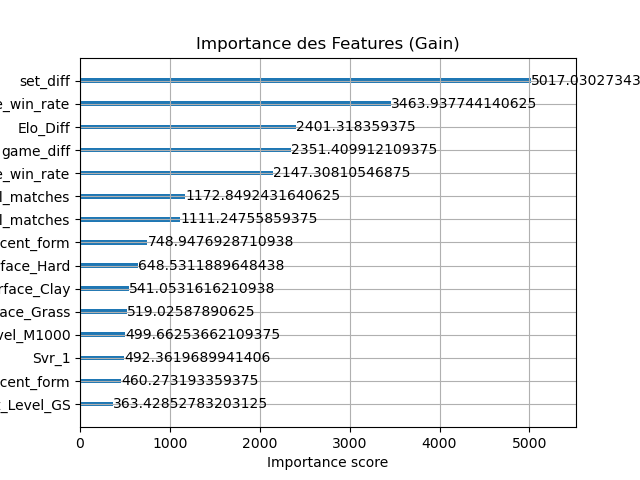
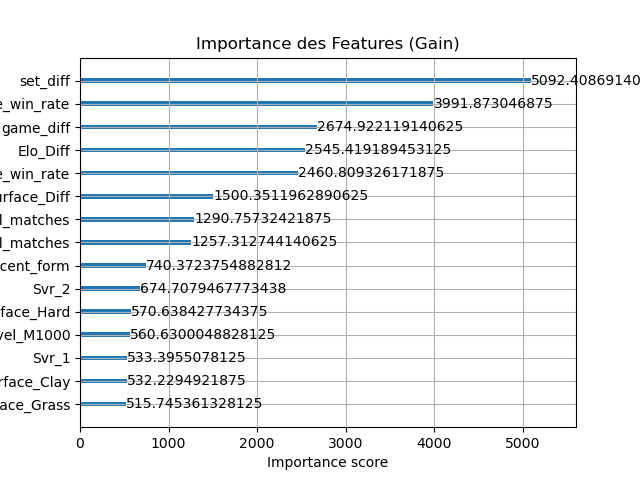
début de la classe data set

diff --git a/src/models/xgboost_rnn/class_data_set.py b/src/models/xgboost_rnn/class_data_set.py
@@ -1,0 +1,70 @@
+# création de la classe DataSet pour pouvoir entrainer le modèle pytorch
+import pandas as pd
+import torch
+from torch.utils.data import Dataset
+class TennisDataset(Dataset):
+    def __init__(self, data, feature_cols, target_col):
+        self.X = data[feature_cols].values
+        self.y = data[target_col].values
+        self.data = data
+
+    def __len__(self):
+        return len(self.y)
+
+    def players_to_index(self, data):
+        players = pd.concat([data['Player1_Name'], data['Player2_Name']]).unique() # obtenir la liste unique des joueurs
+        self.player_to_idx = {player: idx for idx, player in enumerate(players)}
+        self.idx_to_player = {idx: player for player, idx in self.player_to_idx.items()}
+
+    def surfaces_to_index(self):
+        data = self.data
+        surfaces = data['Surface'].unique()
+        self.surface_to_idx = {surface: idx for idx, surface in enumerate(surfaces)}
+        self.idx_to_surface = {idx: surface for surface, idx in self.surface_to_idx.items()}
+
+    def tournaments_to_index(self):
+        data = self.data
+        tournaments = data['tournament_name'].unique()
+        self.tournament_to_idx = {tournament: idx for idx, tournament in enumerate(tournaments)}
+        self.idx_to_tournament = {idx: tournament for tournament, idx in self.tournament_to_idx.items()}
+
+    def sequence_rnn(self, sequence_length=10):
+        data = self.data.sort_values(['match_id', 'Pt']).reset_index(drop=True)
+        all_sequences = []
+
+        # Grouper par match pour éviter de recalculer data['match_id'] == matchs à chaque fois (plus rapide)
+        for _, match_data in data.groupby('match_id'):
+            winners = match_data['PtWinner'].values # On suppose 1 ou 2 ici
+
+            for i in range(len(winners)):
+                # On prend les points avant l'index i
+                # Si i=0, la liste est vide. Si i=5, on prend de 0 à 4.
+                current_seq = winners[max(0, i - sequence_length) : i].tolist()
+
+                # Padding : on ajoute des 0 à gauche pour atteindre sequence_length
+                padded_seq = [0] * (sequence_length - len(current_seq)) + current_seq
+                all_sequences.append(padded_seq)
+
+        self.sequences = torch.LongTensor(all_sequences)
+        # j'ai l'ensemble des séquences pour chaque point dans l'ordre du dataframe sous forme de tenseur
+
+
+    def __getitem__(self, idx):
+        # Récupérer la séquence pré-calculée pour ce point précis
+        seq = self.sequences[idx] # Résultat: un tenseur de taille (10,)
+
+        # 2. Récupérer les indices des joueurs et décor (exemples)
+        row = self.data.iloc[idx]
+        p1 = self.player_to_idx.get(row['Player1_Name'], 0) # 0 si inconnu
+        p2 = self.player_to_idx.get(row['Player2_Name'], 0)
+
+        # 3. Récupérer la cible (Winner_Binary)
+        target = self.y[idx]
+
+        # On renvoie un dictionnaire (plus propre pour s'y retrouver après)
+        return {
+            'p1': torch.tensor(p1, dtype=torch.long),
+            'p2': torch.tensor(p2, dtype=torch.long),
+            'sequence': seq,
+            'target': torch.tensor(target, dtype=torch.float)
+        }

diff --git a/src/models/xg_boost/xg_boost.py b/src/models/xg_boost/xg_boost.py
@@ -6,6 +6,7 @@ from sklearn.metrics import log_loss, brier_score_loss, accuracy_score
 from utils.features import load_data, df_complete_features
 import matplotlib.pyplot as plt
 from sklearn.calibration import calibration_curve
+import seaborn as sns
 
 # 1. Chargement et Nettoyage
 print("Chargement des données...")
@@ -35,7 +36,8 @@ significant_features = [
     'Gm#', 'p1_recent_form', 'p2_recent_form', 'Svr_1', 'Simple_Score_Player1',
     'Simple_Score_Player2', 'p1_total_matches', 'p2_total_matches',
     'Surface_Clay', 'Surface_Grass', 'Surface_Hard',
-    'Tournament_Level_GS', 'Tournament_Level_M1000', 'Tournament_Level_ATP500', 'Tournament_Level_ATP250'
+    'Tournament_Level_GS', 'Tournament_Level_M1000', 'Tournament_Level_ATP500', 'Tournament_Level_ATP250',
+    "Elo_Surface_Diff", "Svr_2"
 ]
 
 # Colonnes de base pour le get_dummies
@@ -47,7 +49,6 @@ def prepare_matrices(data, features_list):
     X = pd.get_dummies(data.drop(columns=[c for c in cols_to_drop if c in data.columns]),
                        columns=['Surface', 'Tournament_Level', 'Svr'])
 
-    # Réalignement critique : on s'assure que X a exactement les colonnes de features_list
     X = X.reindex(columns=features_list, fill_value=0)
     y = data['Winner_Binary']
     return X, y
@@ -107,8 +108,6 @@ plt.plot([0, 1], [0, 1], linestyle='--', color='gray', label='Parfaite Calibrati
 # On ajoute tes modèles (exemple avec tes résultats XGBoost)
 plot_calibration(y_test, y_pred_proba, "Xgboost")
 
-# Quand tu auras ton RNN, tu n'auras qu'à ajouter cette ligne :
-# plot_calibration(y_test, y_rnn_proba, "Modèle Hybride RNN")
 
 plt.xlabel('Probabilité Prédite')
 plt.ylabel('Fréquence Réelle de Victoire')
@@ -116,3 +115,22 @@ plt.title('Courbe de Calibration : Xgboost vs Réalité')
 plt.legend()
 plt.grid(True, alpha=0.3)
 plt.show()
+
+
+def plot_discrimination(y_true, y_probs, model_name):
+    plt.figure(figsize=(10, 6))
+    # Distribution pour les perdants (0)
+    plt.plot([0, 1], [0, 1], "k--", label="Parfaite Calibration", alpha=0.6)
+    sns.kdeplot(y_probs[y_true == 0], label='Réalité : Défaite', shade=True, color='red')
+    # Distribution pour les gagnants (1)
+    sns.kdeplot(y_probs[y_true == 1], label='Réalité : Victoire', shade=True, color='blue')
+
+    plt.title(f'Capacité de Discrimination - {model_name}')
+    plt.xlabel('Probabilité de victoire prédite')
+    plt.ylabel('Densité de matchs')
+    plt.legend()
+    plt.show()
+
+# À tester avec :
+#plot_discrimination(y_test, y_pred_proba, "Régression Logistique")
+plot_discrimination(y_test, y_pred_proba, "XGBoost")

diff --git a/utils/features.py b/utils/features.py
@@ -218,6 +218,46 @@ def calculate_elo(df, k_factor=32):
     return pd.DataFrame(elo_history)
 
 
+
+def calculate_elo_surface(df, k_factor=32):
+    # On trie pour être sûr de l'ordre chronologique
+    df_sorted = df.sort_values(by=['match_id'])
+    matches = df_sorted[['match_id', 'Player1_Name', 'Player2_Name', 'Winner', 'Surface']].drop_duplicates()
+
+    elo_dict = {}
+    elo_history = []
+
+    for _, row in matches.iterrows():
+        p1, p2 = row['Player1_Name'], row['Player2_Name']
+        surface = row['Surface']
+        # Clé unique par joueur et surface
+        key1, key2 = (p1, surface), (p2, surface)
+
+        r1, r2 = elo_dict.get(key1, 1500), elo_dict.get(key2, 1500)
+
+        elo_history.append({'match_id': row['match_id'], 'Elo_P1_Surface': r1, 'Elo_P2_Surface': r2})
+
+        # MISE À JOUR : On utilise le résultat pour le PROCHAIN match
+        actual_p1 = 1 if row['Winner'] == p1 else 0
+        expected_p1 = 1 / (1 + 10 ** ((r2 - r1) / 400))
+
+        elo_dict[key1] = r1 + k_factor * (actual_p1 - expected_p1)
+        elo_dict[key2] = r2 + k_factor * ((1 - actual_p1) - (1 - expected_p1))
+
+    return pd.DataFrame(elo_history)
+
+
+
+def difference_in_elo_surface(df):
+    df['Elo_Surface_Diff'] = df['Elo_P1_Surface'] - df['Elo_P2_Surface']
+    return df
+
+
+
+
+
+
+
 def calculate_live_momentum(df):
     """
     Calcule les statistiques de performance en direct durant le match de manière optimisée.
@@ -360,6 +400,8 @@ def df_complete_features(df):
     print("Calcul de l'Elo en cours...")
     elo_map = calculate_elo(df)
     df = df.merge(elo_map, on='match_id', how='left')
+    elo_surface_map = calculate_elo_surface(df)
+    df = df.merge(elo_surface_map, on='match_id', how='left')
 
     # momentum live
     print("Calcul du momentum en cours...")
@@ -380,6 +422,7 @@ def df_complete_features(df):
 
     df = column_winner(df)
     df = elo_difference(df)
+    df = difference_in_elo_surface(df)
 
     # Finalisation
     return df.reset_index(drop=True)
@@ -406,6 +449,9 @@ if __name__ == "__main__":
         print(df['Elo_P1'].quantile([0.25, 0.5, 0.75, 0.99]))
         print("Quantiles Elo_P2 :")
         print(df['Elo_P2'].quantile([0.25, 0.5, 0.75, 0.99]))
+        # quantiles elo surfac Hard
+        print("Quantiles Elo_P1_Surface :")
+        print(df[df['Surface'] == 'Hard']['Elo_P1_Surface'].quantile([0.25, 0.5, 0.75, 0.99]))
 
     except Exception as e:
         print(f"Erreur : {e}")

diff --git a/src/models/regression_log/regression_sklearn.py b/src/models/regression_log/regression_sklearn.py
@@ -6,6 +6,7 @@ from utils.features import load_data, df_complete_features
 import matplotlib.pyplot as plt
 from sklearn.metrics import brier_score_loss, log_loss
 from sklearn.calibration import calibration_curve
+import seaborn as sns
 
 
 df = load_data("/Users/mathisverguet/live_win_probability_tennis/data/raw/processed/charting-m-points-2020s.csv")
@@ -23,7 +24,7 @@ df = df.dropna().reset_index(drop=True)
 
 # Split temporel propre
 df_train = df[df['year'] <= 2015].copy()
-df_test = df[df['year'] > 2015].copy()
+df_test = df[df['year'] >= 2020].copy()
 
 # Liste des colonnes à supprimer
 cols_to_drop = [
@@ -43,7 +44,7 @@ significant_features = ['Elo_Diff', 'Pt', 'set_diff', 'game_diff', 'p1_serve_win
                         'Simple_Score_Player2', 'p1_total_matches', 'p2_total_matches',
                         'Surface_Clay', 'Surface_Grass',
                         'Tournament_Level_M1000', 'Tournament_Level_ATP500', 'Tournament_Level_ATP250',
-                        'Tournament_Level_GS']
+                        'Tournament_Level_GS', "Elo_Surface_Diff"]
 
 
 X_train = X_train[significant_features]
@@ -149,3 +150,21 @@ plt.title('Courbe de Calibration : Régression logistique vs Réalité')
 plt.legend()
 plt.grid(True, alpha=0.3)
 plt.show()
+
+
+def plot_discrimination(y_true, y_probs, model_name):
+    plt.plot([0, 1], [0, 1], "k--", label="Parfaite Calibration", alpha=0.6)
+    plt.figure(figsize=(10, 6))
+    # Distribution pour les perdants (0)
+    sns.kdeplot(y_probs[y_true == 0], label='Réalité : Défaite', shade=True, color='red')
+    # Distribution pour les gagnants (1)
+    sns.kdeplot(y_probs[y_true == 1], label='Réalité : Victoire', shade=True, color='blue')
+
+    plt.title(f'Capacité de Discrimination - {model_name}')
+    plt.xlabel('Probabilité de victoire prédite')
+    plt.ylabel('Densité de matchs')
+    plt.legend()
+    plt.show()
+
+
+plot_discrimination(y_test, y_pred_proba, "Régression Logistique")
